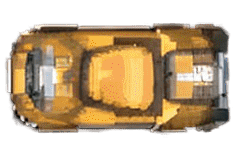
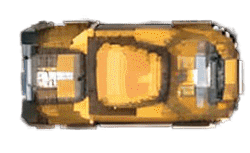
camera

diff --git a/vehicle.py b/vehicle.py
@@ -1,5 +1,5 @@
 import pygame
-
+import math
 class Vehicle:
     def __init__(self, x, y, speed):
         self.x = x  # Initial x position
@@ -7,26 +7,37 @@ class Vehicle:
         self.speed = speed  # Speed in pixels per frame
         self.image = pygame.image.load("img/vehicle.png")  # Load the vehicle image
         self.image = pygame.transform.scale(self.image, (125, 76))
-        self.rect = self.image.get_rect()  # Get a rect object for the image to use for collision detection
+        self.rect = self.image.get_rect(center=(self.x, self.y))
         self.occupied = False  # Whether the car is occupied by a player
         self.direction = 0  # Initial direction in degrees
+        self.rotated_image = self.image
 
     def update(self):
         # Update the rect attribute to match the current x and y position
-        self.rect.x = self.x
-        self.rect.y = self.y
+        self.rect.move_ip(self.x - self.rect.x, self.y - self.rect.y)
+
         # Check if the car is occupied by a player
         if self.occupied:
             # Update the car's position based on the player's input
             keys = pygame.key.get_pressed()
             if keys[pygame.K_a]:
-                self.x -= self.speed
+                self.direction -= 5
             if keys[pygame.K_d]:
-                self.x += self.speed
+                self.direction += 5
+            # Update the car's position based on the player's input
             if keys[pygame.K_w]:
-                self.y -= self.speed
+                self.x += math.cos(math.radians(self.direction)) * self.speed
+                self.y += math.sin(math.radians(self.direction)) * self.speed
             if keys[pygame.K_s]:
-                self.y += self.speed
+                self.x -= math.cos(math.radians(self.direction)) * self.speed
+                self.y -= math.sin(math.radians(self.direction)) * self.speed
+
+        # Rotate the car image
+        self.rotated_image = pygame.transform.rotate(self.image, -self.direction)
+        # Calculate the center of the rotated image
+        center = self.rotated_image.get_rect().center
+        x = self.x - center[0]
+        y = self.y - center[1]
 
         # Keep the car within the bounds of the screen
         if self.x < 0:
@@ -40,4 +51,4 @@ class Vehicle:
 
     def render(self, screen):
         # Draw the vehicle on the screen
-        screen.blit(self.image, (self.x, self.y))
+        screen.blit(self.rotated_image, (self.x, self.y))

diff --git a/camera.py b/camera.py
@@ -1,0 +1,54 @@
+import pygame
+
+class Camera:
+    def __init__(self, screen_width, screen_height, world_width, world_height):
+        self.screen_width = screen_width
+        self.screen_height = screen_height
+        self.world_width = world_width
+        self.world_height = world_height
+
+        self.x = 0  # Initial x position of the camera
+        self.y = 0  # Initial y position of the camera
+        self.zoom = 1  # Initial zoom level
+        self.speed = 5
+
+    def update(self, x, y):
+        # Update the camera's position to follow the given x and y coordinates
+        self.x = x - self.screen_width // 2
+        self.y = y - self.screen_height // 2
+            
+        keys = pygame.key.get_pressed()
+        # Update the camera's position based on player input
+        if keys[pygame.K_a]:
+            self.x -= self.speed
+        if keys[pygame.K_d]:
+            self.x += self.speed
+        if keys[pygame.K_w]:
+            self.y -= self.speed
+        if keys[pygame.K_s]:
+            self.y += self.speed
+        if keys[pygame.K_PLUS]:
+            self.zoom *= 1.1
+        if keys[pygame.K_MINUS]:
+            self.zoom /= 1.1
+        # Keep the camera within the bounds of the world
+        if self.x < 0:
+            self.x = 0
+        if self.y < 0:
+            self.y = 0
+        if self.x + self.screen_width > self.world_width:
+            self.x = self.world_width - self.screen_width
+        if self.y + self.screen_height > self.world_height:
+            self.y = self.world_height - self.screen_height
+
+    def zoom_in(self):
+        # Zoom in by a factor of 1.1
+        self.zoom *= 1.1
+
+    def zoom_out(self):
+        # Zoom out by a factor of 1.1
+        self.zoom /= 1.1
+
+    def apply(self, entity):
+        # Convert the entity's position and size from world coordinates to screen coordinates
+        return entity.rect.move(self.x, self.y).scale(self.zoom)

diff --git a/main.py b/main.py
@@ -1,5 +1,6 @@
 import pygame
 from game import Game
+
 # Initialize Pygame
 pygame.init()
 
@@ -35,13 +36,15 @@ while running:
     game.render(screen)  # Render the player
 
     # Debug
-    debug_text  = font.render(f"Player position: x: {game.player.x}, y: {game.player.y}, car: {game.player.car}, in_car: {game.player.in_car}", True, (255, 255, 255))
+    debug_text  = font.render(f"Player position: x: {game.player.x}, y: {game.player.y}, car: {game.player.car}, in_car: {game.player.in_car}, direction: {game.player.direction}", True, (255, 255, 255))
     screen.blit(debug_text, (40, 40))
     debug_text  = font.render(f"Player rect: x: {game.player.rect}", True, (255, 255, 255))
     screen.blit(debug_text, (40, 60))
     for car in game.vehicles:
-        debug_text  = font.render(f"Car position: x: {car.x}, y: {car.y}, rect: {car.rect}, occupied: {car.occupied}", True, (255, 255, 255))
+        debug_text  = font.render(f"Car position: x: {car.x}, y: {car.y}, rect: {car.rect}, occupied: {car.occupied}, direction: {car.direction}", True, (255, 255, 255))
         screen.blit(debug_text, (40, 80))
+    debug_text  = font.render(f"Camera: x: {game.camera.x}, y: {game.camera.y}", True, (255, 255, 255))
+    screen.blit(debug_text, (40, 100))
 
     pygame.display.flip()  # Update the display
 

diff --git a/player.py b/player.py
@@ -7,15 +7,14 @@ class Player:
         self.y = y  # Initial y position
         self.speed = 5  # Speed in pixels per frame
         self.image = pygame.image.load("img/player.png")  # Load the player image
-        self.rect = self.image.get_rect()  # Get a rect object for the image to use for collision detection
+        self.rect = self.image.get_rect(center=(self.x, self.y))
         self.direction = 0  # Initial direction in degrees
         self.in_car = False  # Whether the player is currently in a car
         self.car = None  # The car the player is currently in
 
     def update(self):
         # Update the rect attribute to match the current x and y position
-        self.rect.x = self.x
-        self.rect.y = self.y
+        self.rect.move_ip(self.x - self.rect.x, self.y - self.rect.y)
         # Check if the player is in a car
         if self.in_car:
             # Update the player's position to match the car's position

diff --git a/game.py b/game.py
@@ -1,5 +1,6 @@
 from player import Player
 from vehicle import Vehicle
+from camera import Camera
 class Game:
     def __init__(self):
         # Initialize game state variables
@@ -8,9 +9,9 @@ class Game:
         self.items = []  # Create a list to store item objects
         self.score = 0  # Initialize the score
         self.vehicles = [Vehicle(230,480,5)]
+        self.camera = Camera(0, 0, 4000, 4000)
 
-    def update(self):
-
+    def update(self):      
         # Update the player's position and state
         self.player.update()
 
@@ -25,6 +26,9 @@ class Game:
         # Update the positions and states of vehicles
         for vehicle in self.vehicles:
             vehicle.update()
+
+        # Update the camera's position
+        self.camera.update(self.player.x, self.player.y)
 
     def render(self, screen):
         # Clear the screen
